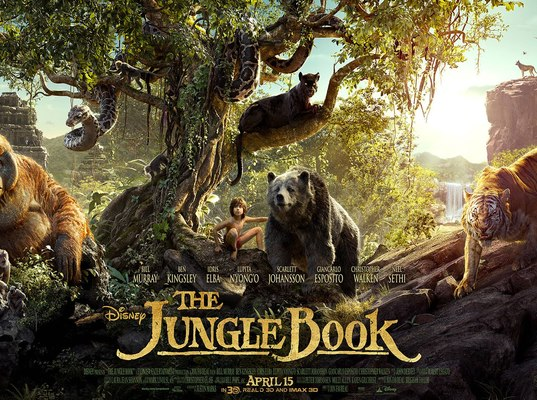
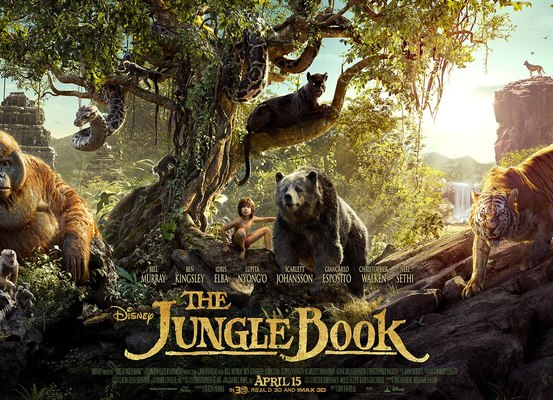
Second last commit

diff --git a/app/assets/stylesheets/application.css.scss b/app/assets/stylesheets/application.css.scss
@@ -109,6 +109,7 @@ a{
 }
 .panel-default{
 	border-color: #fff;
+	margin-top: 10px;
 }
 .panel-heading{
 	margin-bottom: 10px;
@@ -126,4 +127,7 @@ a{
 		text-align: left;
 		margin: 9px,0;
 	}
+}
+.col-md-6.col-sm-6{
+	margin-left: 20px;
 }

diff --git a/app/models/job.rb b/app/models/job.rb
@@ -2,6 +2,6 @@ class Job < ActiveRecord::Base
 	belongs_to :category
 	belongs_to :user
 
-	has_attached_file :image, styles: { medium: "537x400#" }
+	has_attached_file :image, styles: { medium: "554x400#" }
   	validates_attachment_content_type :image, content_type: /\Aimage\/.*\Z/
 end
